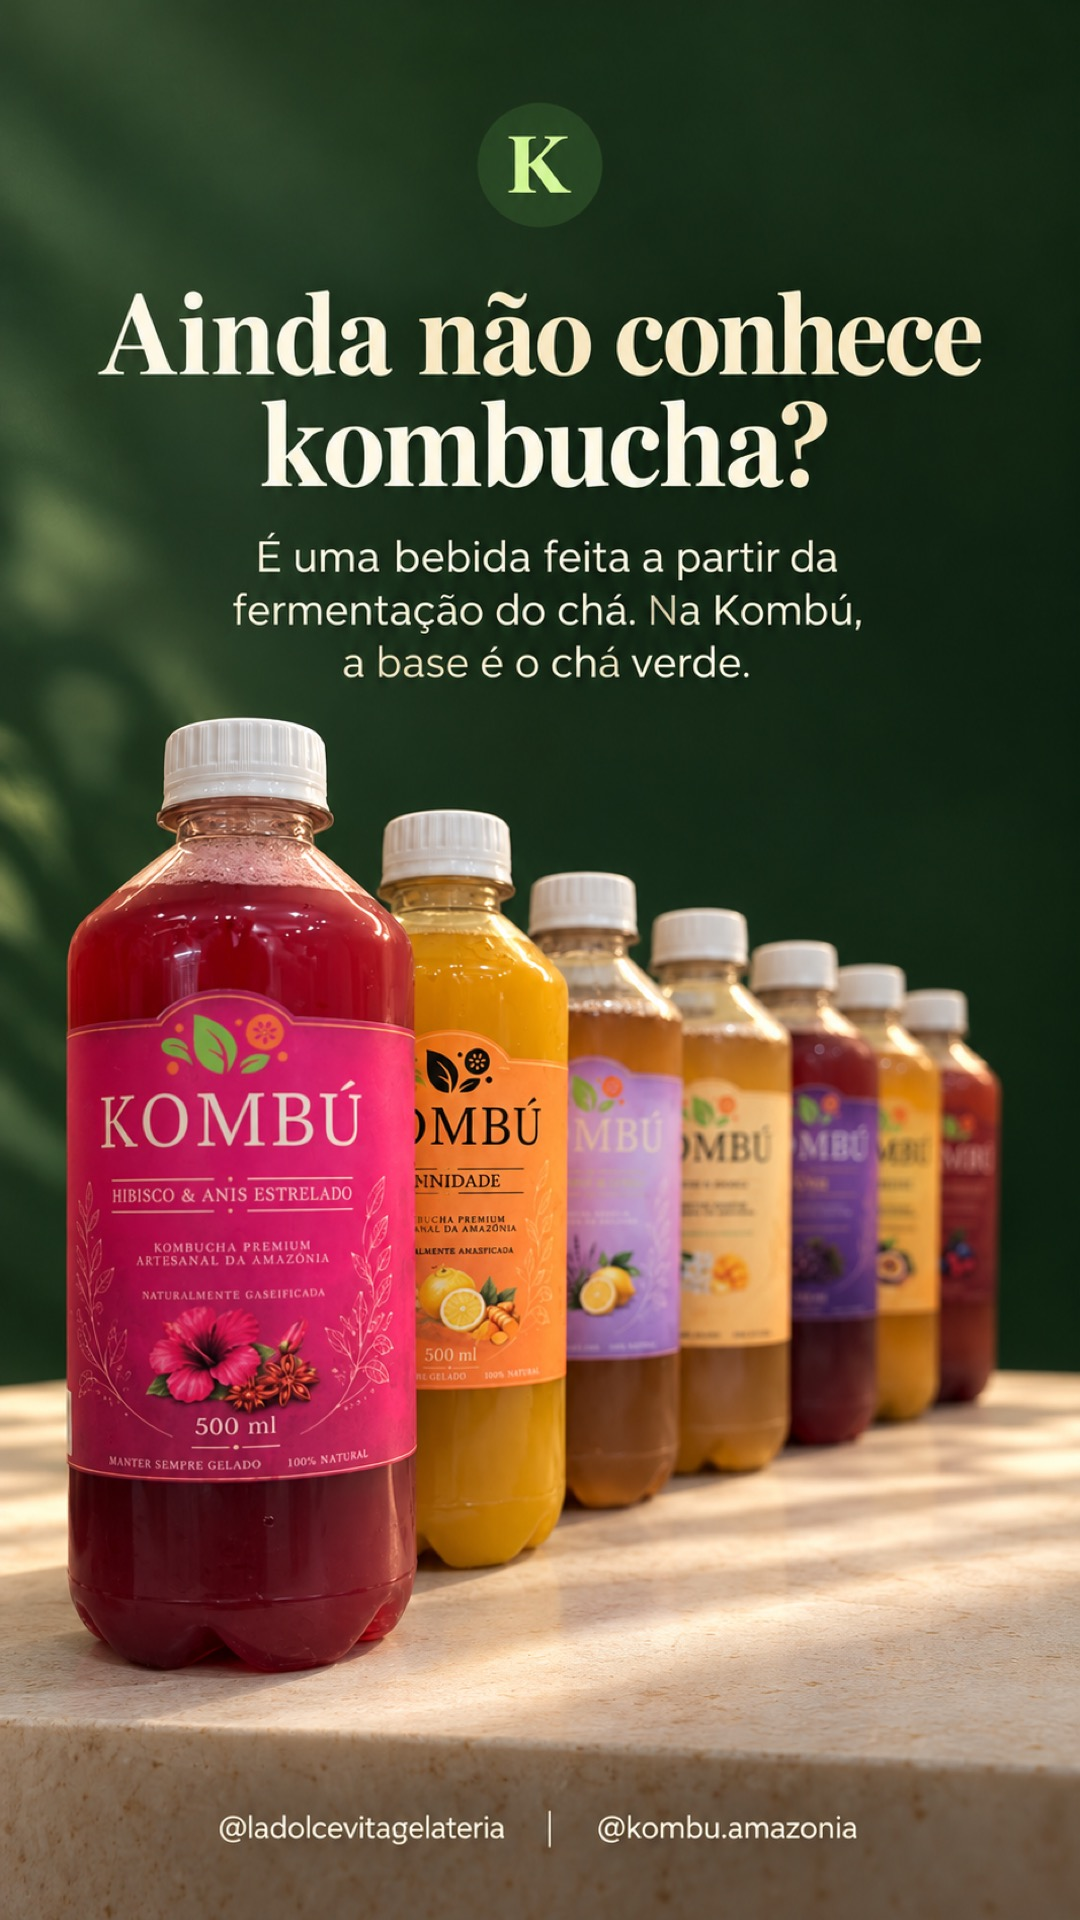
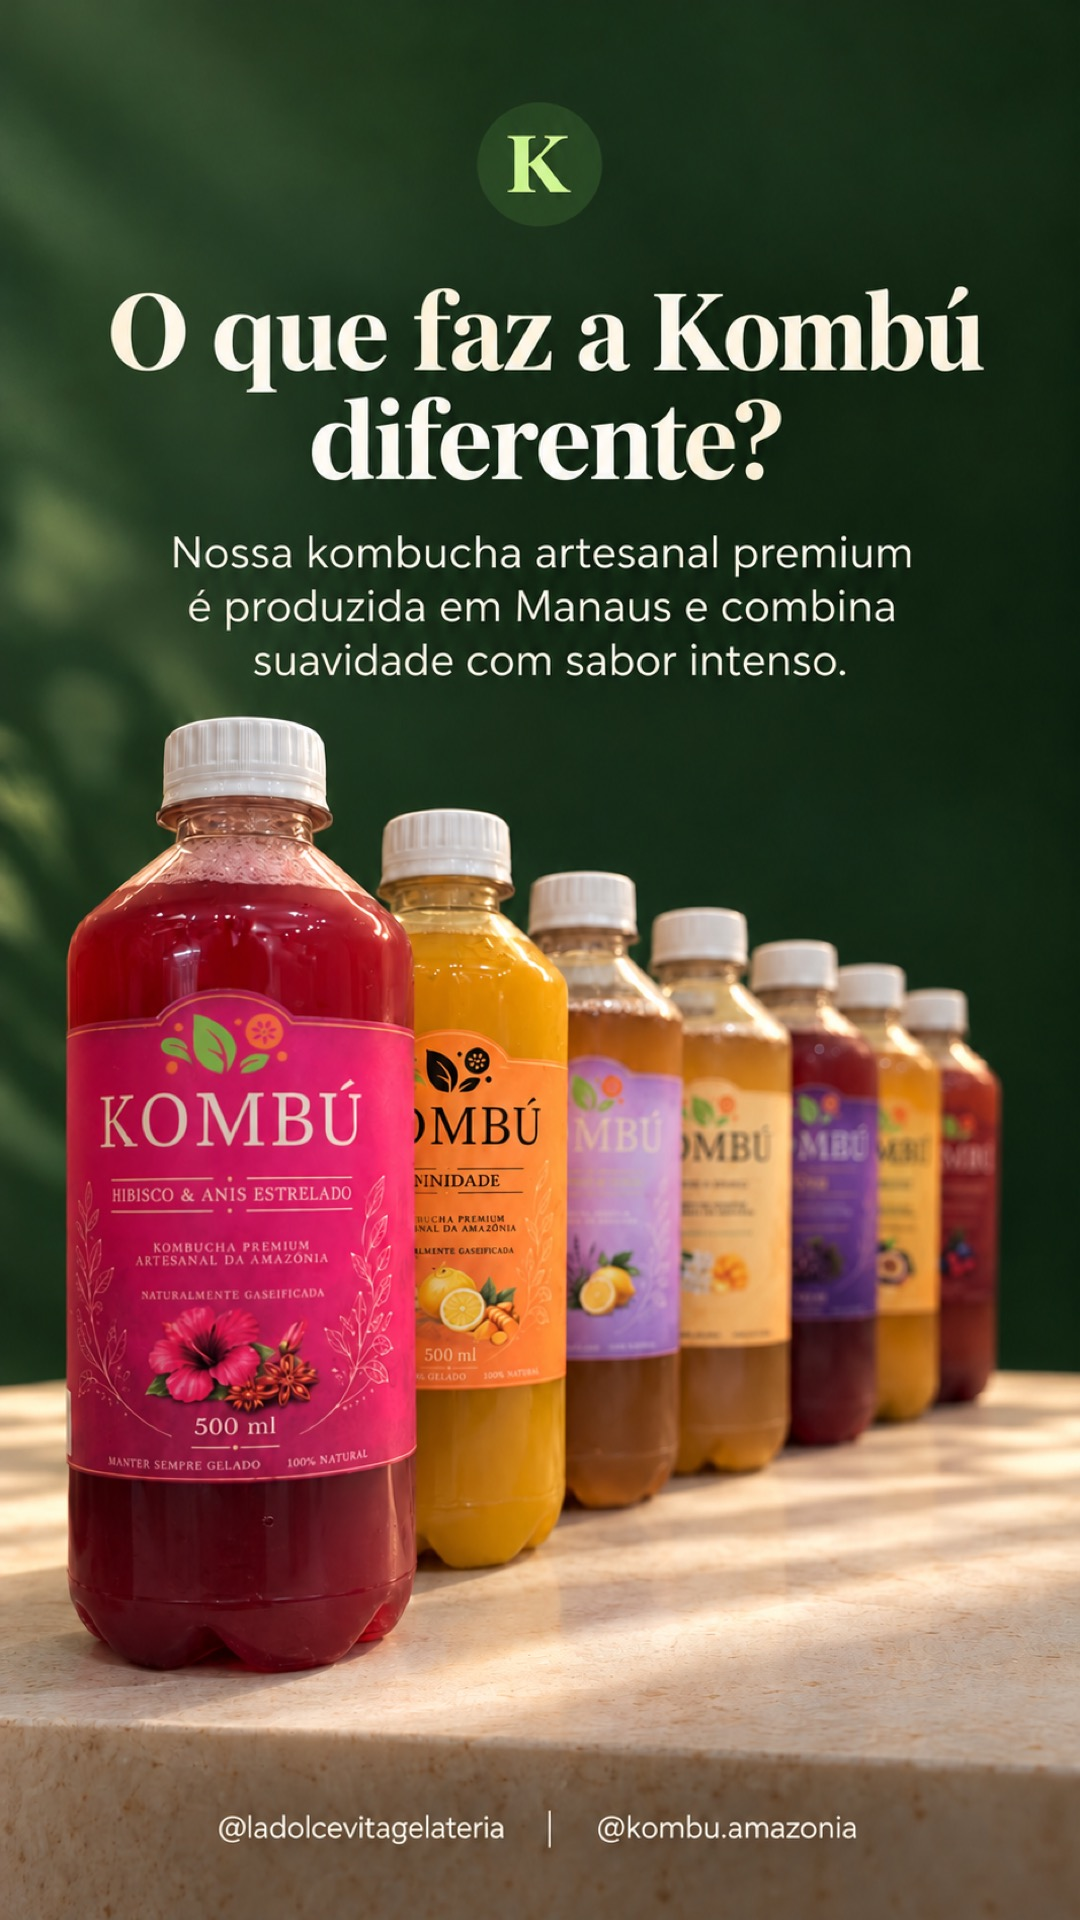
Protect recipe details and emphasize premium smooth intense flavor

diff --git a/marketing/instagram/.agents/social-media-context-sms.md b/marketing/instagram/.agents/social-media-context-sms.md
@@ -13,7 +13,7 @@ copy) conflicts with them, follow the rules.
 - **Handle(s)**: @kombu.amazonia on Instagram
 - **Role**: Artisan kombucha made in Manaus since 2017
 - **Industry/niche**: Premium artisan kombucha in Manaus. B2B first (cafés, empórios, bakeries, restaurants), with consumers buying at partners
-- **Positioning**: A Arte do Natural. Green tea, live culture, real fruit, flowers, herbs and spices, and time. The bubbles come from the fermentation itself.
+- **Positioning**: A Arte do Natural. Kombucha artesanal premium de Manaus, suave e com sabor intenso. Frutas, flores, ervas e especiarias, com gás da própria fermentação.
 
 ---
 
@@ -61,7 +61,7 @@ copy) conflicts with them, follow the rules.
 
 ## Example Posts
 ### Example 1 — Instagram (post 01)
-Kombú é kombucha artesanal feita em Manaus: chá verde, fermentação natural e sabor de ingredientes de verdade.
+Kombú é kombucha artesanal feita em Manaus: fermentação natural e sabor de ingredientes de verdade.
 
 Doze sabores, todos gaseificados pela própria fermentação. Encontre gelada na @divinaterramanaus, na @casaagridoceam, na @ladolcevitagelateria e na @cafeteriagarden_.
 
@@ -167,3 +167,10 @@ This section updates the earlier voice and CTA notes where they differ.
 Nunca usar “feita pela nossa família”, “nossa família”, “produção familiar” ou equivalentes no conteúdo da marca. O titular considera esse enquadramento amador. Valorizar produção artesanal, ingredientes, cuidado no processo e a experiência em Manaus desde 2017, com tom profissional. Esta regra vale para feed, Stories, legendas e futuras automações.
 
 - O sabor é **Imunidade**. “Vitalidade” não existe no catálogo. A IA já inventou esse nome em um rótulo; revisar a embalagem visualmente após toda edição, além de validar os textos.
+
+## Receita confidencial e posicionamento — orientação do titular, 27/10/2026
+
+- Não divulgar o tipo de chá usado na receita. Tratar essa informação como segredo da marca, inclusive em prompts destinados a aparecer em peças, legendas, Stories e automações.
+- Posicionamento prioritário: Kombucha Artesanal Premium de Manaus. A característica sensorial confirmada pelo titular é suavidade com sabor intenso. Integrar esses diferenciais em frases naturais e situações de consumo, sem slogans desconectados ou repetir tudo em cada post.
+- O titular afirma que a Kombú é a única marca de kombucha artesanal premium de Manaus. Registrar como afirmação do titular; não extrapolar para superioridade absoluta ou afirmar que todas as outras marcas têm características inferiores. A comparação de exclusividade requer evidência de mercado atual antes de virar alegação categórica publicada.
+- Conteúdos já publicados permanecem como histórico. Aplicar as correções nos futuros conteúdos e nos arquivos para download; alterações no Instagram já publicado dependem do titular.

diff --git a/marketing/instagram/LEIA-ME.md b/marketing/instagram/LEIA-ME.md
@@ -70,3 +70,5 @@ não o repete.
 - Testes do publicador, com respostas simuladas e sem Instagram: `node --test worker/stories.test.mjs`.
 
 - Correção do titular: não usar referências à família na comunicação. Os validadores impedem esses termos e o nome inexistente “Vitalidade”; o sabor correto é Imunidade. A fila inclui o novo carrossel 21-dolce-vita-fotos, com quatro artes finais do tipo art, preservadas em assets/partners/.
+
+- A variedade do chá é informação confidencial e não deve aparecer em comunicação nova. Os validadores bloqueiam a divulgação nos posts futuros e Stories. Reforçar produção artesanal premium em Manaus, suavidade e sabor intenso. O post21 já publicado permanece registrado para impedir duplicidade; a segunda tela e a legenda corrigidas estão disponíveis nos downloads, sem republicação automática.
